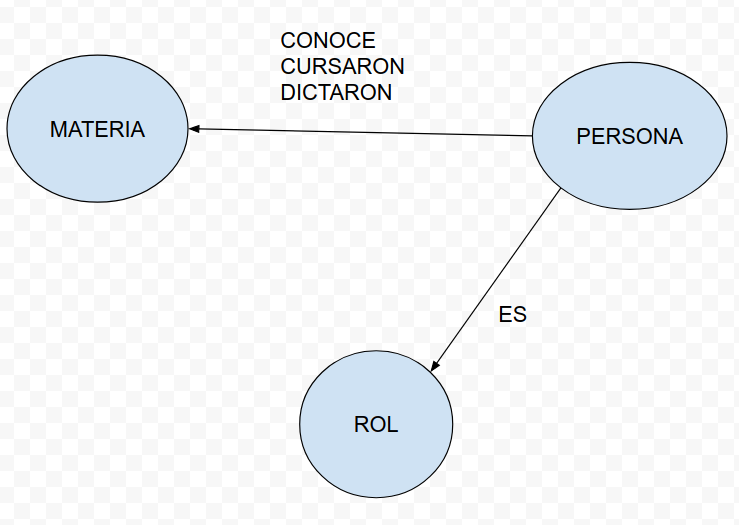
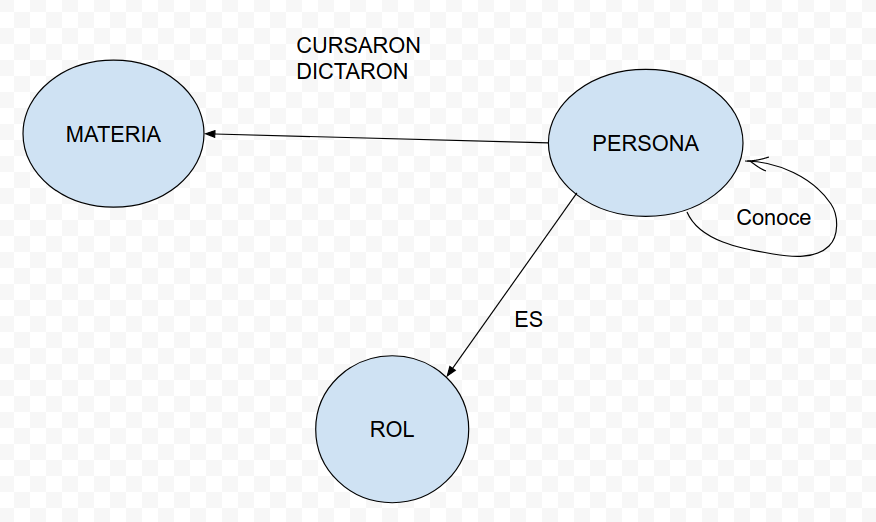
cambio model

diff --git a/README.MD b/README.MD
@@ -15,18 +15,25 @@ Para desarrollar el tp se utilizó la herramienta:
 ![](img/model.png)
 
 
-#### NODOS:  
+## NODOS:  
 
 **MATERIA**: Nombre de la materia y tipo para asignarle el atributo Electiva, Obligatoria, etc.  
-**PERSONA**: Se determina el uso de este nodo para representar a una persona que puede ser tanto Alumno, Docente o el rol que en un futuro se necesite asignar.  
-**ROL**: Como se mencionaba,  a travez de este nodo se asigna el/los rol que correspondan. De esta manera el sistema es escalable y se puede tener una Persona con varios Roles.  
+  
+**PERSONA**: Se determina el uso de este nodo para representar a una persona que puede ser tanto Alumno, Docente o el rol que en un futuro se necesite asignar. De esta manera se hace escalable el uso de roles.  
 
-#### RELACIONES
-**CONOCE**:  Relacion entre personas.
+**ROL**: Como se mencionaba,  a travez de este nodo se asigna el/los roles que correspondan a cada Persona.    
+  
+## RELACIONES
+
+**CONOCE**:  Relacion entre personas.  
+
 **CURSARON**: Para alumnos que cursaron una Materia, se asignan atributos año, calificación, curso, grupo y cuatrimestre.  
+  
 **DICTARON**: Para docentes que dictaron una materia específica, se determina el año, cuatrimestre y curso.  
+  
 **ESROL**: Para asignar uno o varios roles a una Persona.
 
+  
 ## ARCHIVOS
 
 Encontrarán en archivos: [queries.cypher](/files/queries.cypher) los scripts para crear y cargar datos a la base de datos.    
